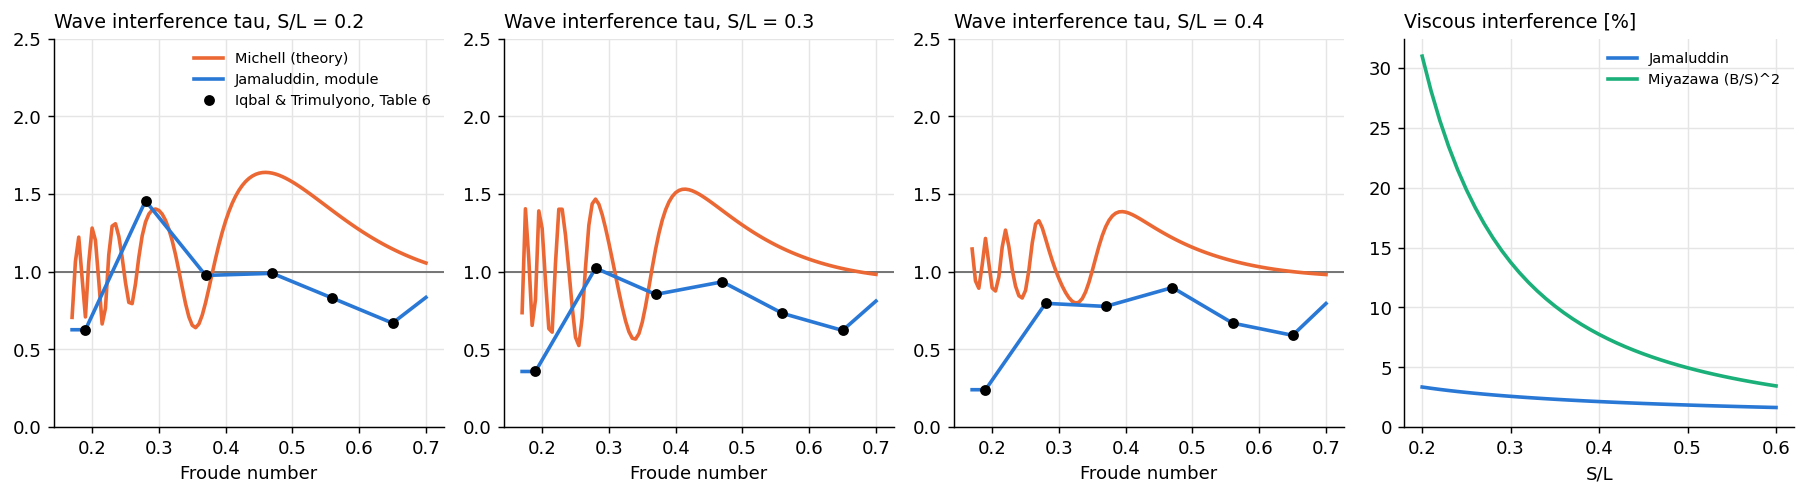
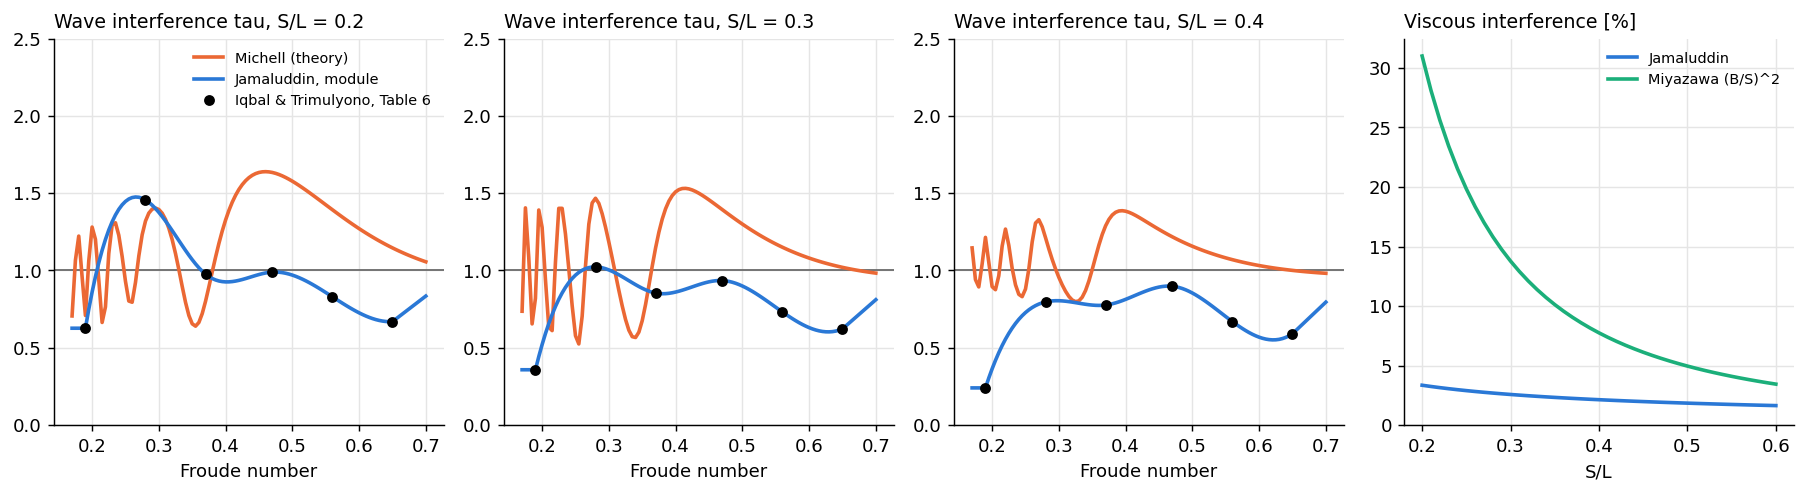
Drop interp_node redundant helper function

diff --git a/archibald/dynamics/hydro/multihull_common.py b/archibald/dynamics/hydro/multihull_common.py
@@ -5,8 +5,11 @@ COMMON FUNCTIONS OF THE MULTIHULL INTERACTION METHODS
 
 #%% DEPENDENCIES
 
+import numpy as onp
+
 import archibald.numpy as np
 import archibald.toolbox.units as u
+from archibald.modeling.interpolation import InterpolatedModel
 
 EPS = 1e-12
 
@@ -104,79 +107,56 @@ def separation_to_length(
 
 #%% FACTOR TABLES
 
-def interp_table(
-        Fn,
-        SL,
+def table_model(
         fn_grid,
         sl_grid,
         table,
         outside=1.,
+        method="bspline",
         **kwargs,
     ):
-    r"""Differentiable bilinear interpolation of an interference factor table.
+    r"""Interpolated model of an interference factor table, function of Fn and S/L.
 
-    Linear in Fn (clamped, ``np.interp``), tent-function blend in S/L. Beyond
-    the last S/L value the factor relaxes linearly to ``outside`` (no
-    interference) over one more S/L-grid-length.
+    The table is interpolated by an ``InterpolatedModel``, with one more column
+    at S/L = 2 max(``sl_grid``) holding ``outside``: far from the table the factor
+    tends to "no interference" (assumption, the measurements stop at the last S/L).
+    Outside the grid, Fn and S/L are held at the edges of the grid.
+
+    The CasADi B-spline needs at least 4 nodes on each axis: a shorter axis falls
+    back to ``method="linear"``, which is not smooth at the nodes.
 
     Parameters
     ----------
-    Fn : float, Froude number [-].
-    SL : float, Separation to length ratio S/L [-].
     fn_grid : list of float, Increasing Froude numbers of the table [-].
     sl_grid : list of float, Increasing S/L values of the table [-].
     table : list of list, ``table[i][j]`` is the factor at ``fn_grid[i]``, ``sl_grid[j]`` [-].
     outside : float, Value far from the table in S/L [-].
+    method : str, ``"bspline"`` or ``"linear"``.
 
     Returns
     -------
-    float, Interpolated factor [-].
+    function, ``factor(Fn, SL)`` [-].
     """
-    sl = list(sl_grid)
-    fn = np.array(list(fn_grid))
-    out = 0.
-    for j in range(len(sl)):
-        col = np.interp(Fn, fn, np.array([row[j] for row in table]))
-        lo = sl[j - 1] if j > 0 else sl[j] - 1.
-        hi = sl[j + 1] if j < len(sl) - 1 else sl[j] + 1.
-        hat = np.where(
-            SL < sl[j],
-            np.maximum((SL - lo) / (sl[j] - lo), 0.),
-            np.maximum((hi - SL) / (hi - sl[j]), 0.),
-        )
-        out = out + col * hat
-    tail = np.where(SL > sl[-1], np.minimum((SL - sl[-1]) / sl[-1], 1.), 0.)
-    return out * (1. - tail) + outside * tail
+    fn = onp.asarray(fn_grid, dtype=float)
+    sl = onp.append(onp.asarray(sl_grid, dtype=float), 2. * sl_grid[-1])
+    values = onp.column_stack([onp.asarray(table, dtype=float), onp.full(len(fn), float(outside))])
+    if min(len(fn), len(sl)) < 4:
+        method = "linear"
+    model = InterpolatedModel(
+        x_data_coordinates={"Fn": fn, "SL": sl},
+        y_data_structured=values,
+        method=method,
+        fill_value=None,
+    )
 
-def interp_nodes(
-        x,
-        grid,
-        values,
-        **kwargs,
-    ):
-    r"""Differentiable piecewise linear interpolation with symbolic node values.
+    def factor(Fn, SL):
+        # Held explicitly: with numeric inputs, the linear method would extrapolate.
+        return model({
+            "Fn": np.minimum(np.maximum(Fn, fn[0]), fn[-1]),
+            "SL": np.minimum(np.maximum(SL, sl[0]), sl[-1]),
+        })
 
-    Same as ``np.interp`` but ``values`` may depend on differentiable
-    quantities (``np.interp`` needs numeric node values). Outside the grid the
-    first / last value is held.
-
-    Parameters
-    ----------
-    x : float, Abscissa [-].
-    grid : list of float, Increasing numeric abscissae of the nodes [-].
-    values : list of float, Node values (may be symbolic).
-
-    Returns
-    -------
-    float, Interpolated value.
-    """
-    n = len(grid)
-    out = 0.
-    for j in range(n):
-        wl = 1. if j == 0 else np.maximum((x - grid[j - 1]) / (grid[j] - grid[j - 1]), 0.)
-        wr = 1. if j == n - 1 else np.maximum((grid[j + 1] - x) / (grid[j + 1] - grid[j]), 0.)
-        out = out + values[j] * np.where(x < grid[j], wl, wr)
-    return out
+    return factor
 
 #%% ROBUSTNESS HELPERS (HULLS CLOSE TO OR OUT OF THE WATER)
 

diff --git a/archibald/dynamics/hydro/jamaluddin.py b/archibald/dynamics/hydro/jamaluddin.py
@@ -16,10 +16,13 @@ the primary sources have not been checked: validate before relying on them.
 
 #%% DEPENDENCIES
 
+import numpy as onp
+
 import archibald.numpy as np
+from archibald.modeling.interpolation import InterpolatedModel
 
 from archibald.dynamics.hydro.multihull_common import (
-    EPS, froude_number, separation_to_length, interp_nodes, smooth_clip,
+    EPS, froude_number, separation_to_length, smooth_clip,
 )
 
 #%% COEFFICIENTS
@@ -34,6 +37,18 @@ SL_MIN, SL_MAX = 0.2, 0.4       # fitted S/L range
 FN_MAX = 0.65                   # highest fitted Froude number
 SL_ZERO = 0.6                   # S/L above which the wave interference is assumed to vanish
 FN_ZERO = 0.75                  # Fn above which the wave interference is assumed to vanish
+
+# tau on a grid: the six fitted Froude numbers, and S/L fine enough for the power law
+# (interpolation error below 1e-6). tau is interpolated, not A and B: A (S/L)^B of
+# interpolated coefficients makes humps that are in none of the fits.
+# fill_value=None holds the edge values outside the grid.
+_SL_GRID = onp.linspace(SL_MIN, SL_ZERO, 81)
+_TAU_MODEL = InterpolatedModel(
+    x_data_coordinates={"Fn": onp.array(FN_TAU), "SL": _SL_GRID},
+    y_data_structured=onp.array([[a * sl ** b for sl in _SL_GRID] for a, b in zip(A_TAU, B_TAU)]),
+    method="bspline",
+    fill_value=None,
+)
 
 #%% INDIVIDUAL COEFFICIENTS
 
@@ -50,7 +65,10 @@ def tau_jamaluddin(
     .. math::
         \tau = A(F_n)\,(S/L)^{B(F_n)}
 
-    with the coefficients ``A_TAU`` and ``B_TAU`` linearly interpolated in Fn.
+    with the coefficients ``A_TAU`` and ``B_TAU``. Between the six fitted Froude
+    numbers, tau is interpolated by cubic B-splines (``InterpolatedModel``), which
+    go through the fitted values and hold the end values outside them. This
+    interpolation is an assumption: the source gives the six fits only.
     Outside the fitted range, the interference is assumed to vanish smoothly
     (assumption, the regression power law would not tend to 1 for large S/L):
 
@@ -73,9 +91,7 @@ def tau_jamaluddin(
     -------
     float, Wave interference factor tau [-].
     """
-    SLc = np.maximum(SL, SL_MIN)
-    taus = [A_TAU[k] * SLc ** B_TAU[k] for k in range(len(FN_TAU))]
-    tau = interp_nodes(Fn, FN_TAU, taus)
+    tau = _TAU_MODEL({"Fn": Fn, "SL": SL})  # S/L below 0.2 is held at 0.2
     w_sl = np.minimum(np.maximum((SL_ZERO - SL) / (SL_ZERO - SL_MAX), 0.), 1.)
     w_fn = np.minimum(np.maximum((FN_ZERO - Fn) / (FN_ZERO - FN_MAX), 0.), 1.)
     return 1. + (tau - 1.) * w_sl * w_fn

diff --git a/archibald/dynamics/hydro/insel_molland.py b/archibald/dynamics/hydro/insel_molland.py
@@ -12,7 +12,7 @@ shipped: they must be digitised from the literature or from tank tests.
 import archibald.numpy as np
 
 from archibald.dynamics.hydro.multihull_common import (
-    froude_number, separation_to_length, interp_table,
+    froude_number, separation_to_length, table_model,
 )
 
 #%% RESISTANCE COMPONENTS
@@ -39,7 +39,9 @@ def compute_dRw_insel_molland(
         C_T = (1 + \beta k)\,C_F + \tau\,C_W
 
     No table is shipped: they must be digitised from :cite:`insel1992investigation`
-    and :cite:`molland1994resistance` or provided from tank tests. For n > 2 hulls
+    and :cite:`molland1994resistance` or provided from tank tests. The table is
+    interpolated by B-splines, and tends to 1 beyond its last S/L, see
+    :func:`multihull_common.table_model`. For n > 2 hulls
     the factors are superposed pairwise (assumption, the data only covers two hulls):
 
     .. math::
@@ -60,6 +62,7 @@ def compute_dRw_insel_molland(
     list of list, Interference matrix dRw[i][j] [N], zero diagonal (not
     necessarily symmetric if the hulls differ).
     """
+    tau_model = table_model(fn_grid, sl_grid, tau_table)
     n = len(Lwl)
     dRw = [[0. for _ in range(n)] for _ in range(n)]
     for i in range(n):
@@ -67,7 +70,7 @@ def compute_dRw_insel_molland(
         for j in range(n):
             if i != j:
                 SL = separation_to_length(y[i], y[j], Lwl[i], Lwl[j])
-                tau = interp_table(Fn, SL, fn_grid, sl_grid, tau_table)
+                tau = tau_model(Fn, SL)
                 dRw[i][j] = Rw[i] * (tau - 1.)
     return dRw
 
@@ -108,6 +111,7 @@ def compute_dRf_insel_molland(
     -------
     list of float, Viscous interference of each hull dRf[i] [N].
     """
+    visc_model = table_model(fn_grid, sl_grid, visc_table)
     n = len(Lwl)
     dRf = [0. for _ in range(n)]
     for i in range(n):
@@ -115,6 +119,6 @@ def compute_dRf_insel_molland(
         for j in range(n):
             if i != j:
                 SL = separation_to_length(y[i], y[j], Lwl[i], Lwl[j])
-                m = interp_table(Fn, SL, fn_grid, sl_grid, visc_table)
+                m = visc_model(Fn, SL)
                 dRf[i] = dRf[i] + Rf[i] * (m - 1.)
     return dRf

diff --git a/archibald/dynamics/hydro/test_validation_published.py b/archibald/dynamics/hydro/test_validation_published.py
@@ -206,13 +206,27 @@ def test_miyazawa_factor():
     assert float(dRf[0]) == pytest.approx(100. * (2. / 4.) ** 2)
 
 
-def test_insel_molland_reads_its_table_at_the_nodes():
+@pytest.mark.parametrize("fn_grid, tau_table", [
+    ([0.3, 0.4, 0.5], [[1., 1., 1.], [1., 1.25, 1.], [1., 1., 1.]]),  # 3 Froude numbers: linear
+    ([0.3, 0.4, 0.5, 0.6], [[1., 1., 1.], [1., 1.25, 1.], [1., 1., 1.], [1., 1., 1.]]),  # B-spline
+])
+def test_insel_molland_reads_its_table_at_the_nodes(fn_grid, tau_table):
     L, g = 20., 9.81
     dRw = insel_molland.compute_dRw_insel_molland(
         stw=0.4 * math.sqrt(g * L) / u.kt, Lwl=[L, L], y=[-3., 3.], g=g, Rw=[100., 100.],
-        fn_grid=[0.3, 0.4, 0.5], sl_grid=[0.2, 0.3, 0.4], tau_table=[[1., 1., 1.], [1., 1.25, 1.], [1., 1., 1.]],
+        fn_grid=fn_grid, sl_grid=[0.2, 0.3, 0.4], tau_table=tau_table,
     )
     assert float(dRw[0][1]) == pytest.approx(25.)
+
+
+def test_insel_molland_tends_to_no_interference_far_from_its_table():
+    L, g = 20., 9.81
+    table = dict(fn_grid=[0.3, 0.4, 0.5, 0.6], sl_grid=[0.2, 0.3, 0.4], tau_table=[[1.2] * 3] * 4)
+    for separation in (0.8, 2.):  # 2 S/L max and beyond
+        dRw = insel_molland.compute_dRw_insel_molland(
+            stw=0.9 * math.sqrt(g * L) / u.kt, Lwl=[L, L], y=[0., separation * L], g=g, Rw=[100., 100.], **table,
+        )
+        assert float(dRw[0][1]) == pytest.approx(0., abs=1e-9)
 
 
 #%% ADDED RESISTANCE, KVLCC2 at Fn = 0.142, potential code of Hizir et al. (2019), Table 3

diff --git a/examples/03 - Validation/multihull_interaction.py b/examples/03 - Validation/multihull_interaction.py
@@ -123,7 +123,7 @@ for j, SL in enumerate(SL_TABLE):
     ax = axes[j]
     ax.axhline(1., color=GREY, linewidth=1)
     ax.plot(Fn_fine, [michell_tau(Fn, SL) for Fn in Fn_fine], color=ORANGE, linewidth=2, label="Michell (theory)")
-    ax.plot(Fn_fine, [float(jamaluddin.tau_jamaluddin(Fn, SL)) for Fn in Fn_fine], color=BLUE, linewidth=2, label="Jamaluddin, module")
+    ax.plot(Fn_fine, jamaluddin.tau_jamaluddin(Fn_fine, SL), color=BLUE, linewidth=2, label="Jamaluddin, module")
     ax.plot(FN_TABLE, TAU_TABLE[:, j], "o", color="black", markersize=5, label="Iqbal & Trimulyono, Table 6")
     if measured is not None:
         mask = onp.array(measured["SL"]) == SL

diff --git a/examples/03 - Validation/README.md b/examples/03 - Validation/README.md
@@ -25,7 +25,7 @@ This page says what has been shown and what has not. "Validated" would be too st
 | Michell, thin ship | `michell.py` | Independent integration of the integral, Wigley hull | **Reproduced** to -0.1 to -0.5 % (-1.2 % at Fn 0.15), explained by the truncation |
 | Michell, against measurement | `michell.py` | Kajitani et al. 1983, through Ahmed et al. 2015 | Right magnitude. Humps and hollows are exaggerated, as thin ship theory is known to do |
 | Jamaluddin, catamaran interference | `jamaluddin.py` | Iqbal & Trimulyono 2014, secondary source | Reproduced, 0.08 % at most. **Not tank data** |
-| Insel & Molland, catamaran interference | `insel_molland.py` | Table reader only | No data shipped: awaiting input |
+| Insel & Molland, catamaran interference | `insel_molland.py` | Table reader only, a B-spline on the user's table | No data shipped: awaiting input |
 | Miyazawa, viscous interference | `miyazawa.py` | Nothing | **Not validated.** Its values look large: 31 % at S/L 0.2 |
 | Wageningen B-series | `propeller.py` | MIT 2.611 notes, and Holtrop 1982 p. 170 | **Reproduced** within 0.63 % and 1 %, at the precision of the sources. Bernitsas et al. 1981 values: awaiting input |
 | Mittendorf et al., added resistance | `mittendorf.py` | PRECAL potential code, KVLCC2 | Inside the method's 90 % interval: -13 % at lambda/L 0.5, +3.3 % at 1.2. **Another code, not a measurement** |
@@ -111,6 +111,7 @@ The shipped function differs because `smooth_clip(Fr, 0, 0.6, beta=10)` is too s
 ![Multihull](figures/multihull_interaction.png)
 
 - Jamaluddin: reproduces Tables 5 and 6 of Iqbal & Trimulyono (2014) within 0.08 %. It is a secondary source, not tank data.
+- Between its six fitted Froude numbers, tau is a cubic B-spline (`InterpolatedModel`), an assumption since the source gives the fits only. The spread between interpolations shows how loose this is: at Fn 0.23 and S/L 0.2, linear interpolation gives 1.00 and the spline 1.31. The spline overshoots the fitted values by 1.3 % at S/L 0.2, near Fn 0.27, and dips to 0.55 at S/L 0.4 between 0.67 and 0.59.
 - Michell's interaction factor and Jamaluddin's disagree above Fn 0.37. Michell gives 1.3 to 1.6 at S/L 0.2, Jamaluddin below 1. A regression absorbs the error of thin ship theory, so only the trends are comparable. Tank data are needed to judge.
 - The Michell factor varies strongly with Cp: 1.15 at Cp 0.693, 1.39 at 0.65, 0.87 at 0.75 (Fn 0.37, S/L 0.3). The Cp of 0.693 for NPL 5b comes from memory and is not verified.
 - Miyazawa gives 31 %, 14 % and 8 % at S/L 0.2, 0.3 and 0.4, against 3.4 %, 2.6 % and 2.1 % for Jamaluddin. These are large against the note of the module itself, and its source has not been read.

diff --git a/CLAUDE.md b/CLAUDE.md
@@ -125,7 +125,7 @@ $env:MPLBACKEND = "Agg"
 ```
 
 - `pytest` is not installed in `py313`. `pip install -e ".[test]"` or appending the base conda `site-packages` to `sys.path` both work.
-- **Test baseline: 335 passed, 16 failed, 4 errors.** Compare against this rather than expecting green:
+- **Test baseline: 337 passed, 16 failed, 4 errors.** Compare against this rather than expecting green:
   - 16 failures and errors use the removed old API (`arb.Airplane`, `LiftingSet`, `VortexLatticeMethod`).
   - 3 are Kulfan similarity tests (NaN in `airfoil_families.py`).
   - 1 is the black box nonsmooth solver test.
@@ -172,4 +172,6 @@ Confirmed and not fixed unless noted otherwise. Check they still exist before re
 - `Sailboat.masses` was added, and `draw_vlm` particles were reworked as described above.
 - `compute_torsor` was rewritten to sum without running physics, and `find_equilibrium` to take an `Opti`. `compute_propeller` became `compute_propellers`, built on `Propeller.compute_propulsion`.
 - The VLM used to ignore heel, trim, leeway and immersion entirely. Non-zero attitude results changed when this was fixed.
+- `multihull_common.interp_nodes` was removed. `jamaluddin.tau_jamaluddin` now uses a 2D bspline `InterpolatedModel` of tau on (Fn, S/L), with `fill_value=None` to hold the edge values. Interpolate tau itself: interpolating A and B of `A (S/L)^B` made a hump of 1.55 at Fn 0.235, S/L 0.2, above every fit. Between the fitted Froude numbers tau changed by up to 0.32 against the old linear interpolation, so `michell_jamaluddin` results move (not rerun on the Nacra).
+- `multihull_common.interp_table` was replaced by `table_model`, which returns `factor(Fn, SL)` built on an `InterpolatedModel` and is used by `insel_molland`. It adds a column at 2 max(S/L) holding 1 (no interference), and clamps Fn and S/L to the grid itself, because the numeric linear path (scipy) extrapolates. CasADi's bspline needs at least 4 nodes per axis and raises otherwise, so shorter tables fall back to linear. Below the first S/L the factor is now held, where the old tent functions pulled it toward 0.
 - The worked example of Holtrop & Mennen (1982) found four errors in `holtrop.py`: `c_3` (`RW` was 3.8 % too high), `w_single_open_stern` and `w_twin` (both raised `TypeError`), and the sign in `eta_R_twin`.
